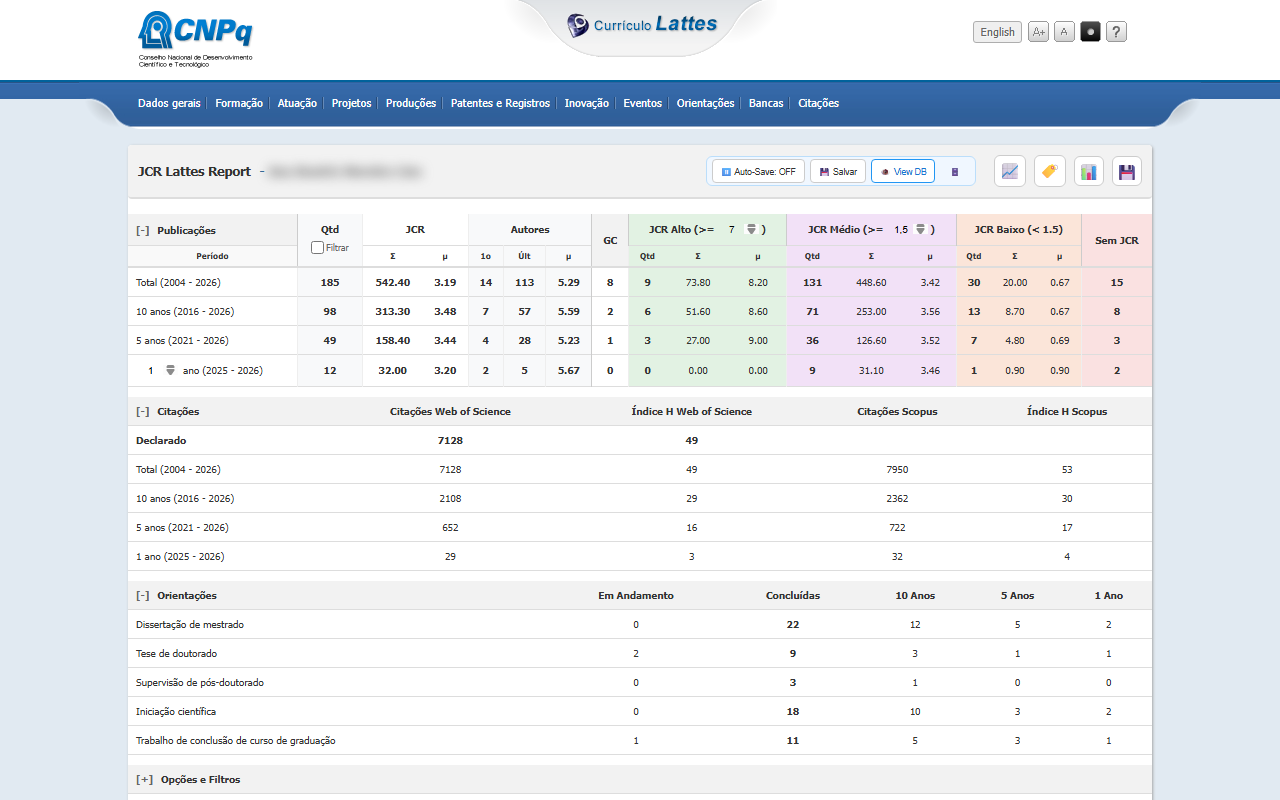
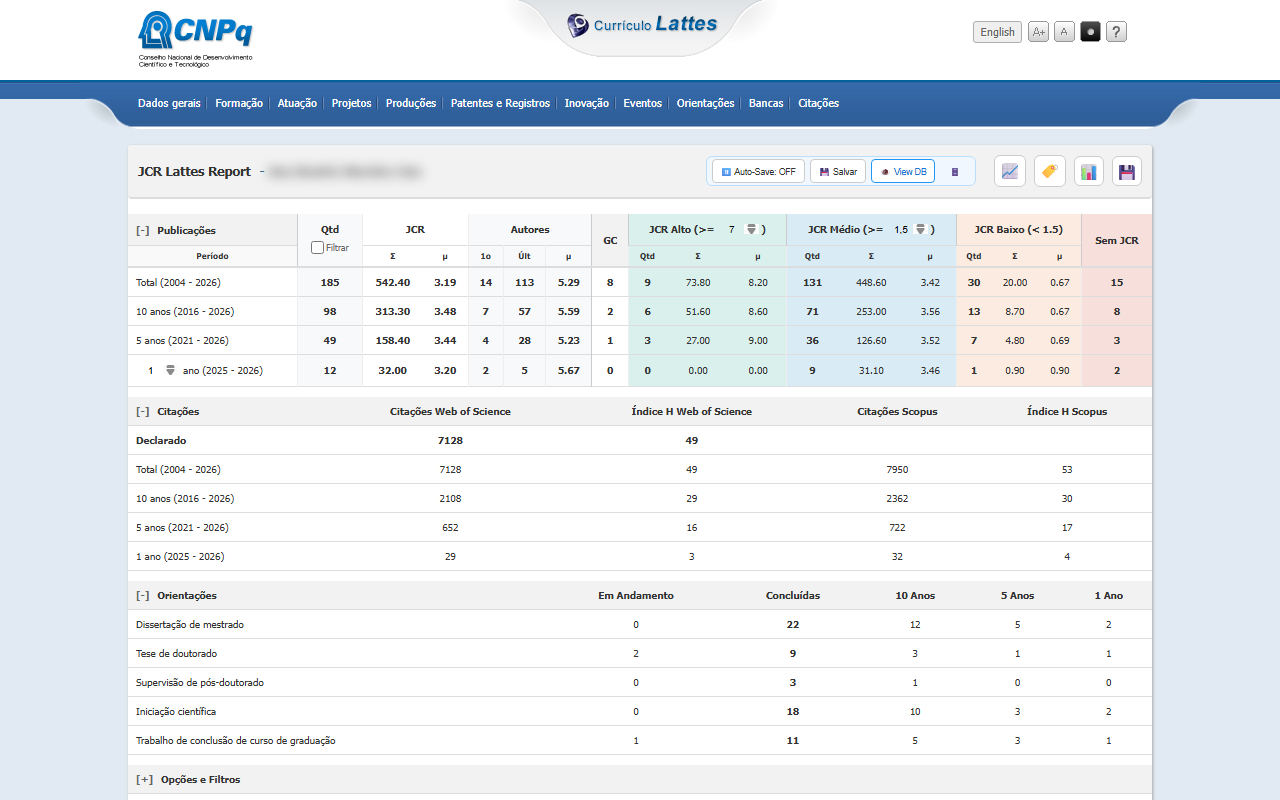
Paleta padrao legivel por daltonicos (Tol Vibrant)
As faixas de JCR e os graficos passam a usar a paleta Vibrant de Paul Tol
(Alto #009988, Medio #0077BB, Baixo #EE7733, Sem JCR #CC3311), que continua
distinguivel com protanopia, deuteranopia e tritanopia. Quem tinha as cores do
padrao anterior salvas passa para a nova; cores escolhidas a mao ficam. README,
descricao da loja e prints atualizados.

Changed region(s): [[0.5938, 0.25, 0.75, 0.5]]

diff --git a/dist/scripts/report_utils.js b/dist/scripts/report_utils.js
@@ -2,12 +2,18 @@
 // Shared utility functions for generating JCR Lattes reports
 
 window.JCRReportUtils = {
+  // Faixas de JCR na paleta "Vibrant" de Paul Tol, legivel por daltonicos: as quatro
+  // cores continuam distintas com protanopia, deuteranopia e tritanopia (a anterior,
+  // verde e vermelho, confundia Alto com Sem JCR). Os graficos usam as mesmas cores.
+  // CORES_PADRAO_ANTIGAS guarda a paleta anterior para content.js reconhecer quem a
+  // tem salva sem ter escolhido cor nenhuma.
+  CORES_PADRAO_ANTIGAS: { high: '#3daa43', mid: '#a838ca', low: '#e65100', none: '#e03535' },
   COLORS: {
-    highJcr: '#3daa43',
-    midJcr: '#a838ca',
-    lowJcr: '#E65100',
-    noJcr: '#e03535',
-    authorRank: '#3daa43',
+    highJcr: '#009988',
+    midJcr: '#0077BB',
+    lowJcr: '#EE7733',
+    noJcr: '#CC3311',
+    authorRank: '#009988',
     authorCount: '#666',
     footerText: '#333',
     border: '#ddd',
@@ -20,11 +26,11 @@ window.JCRReportUtils = {
   },
 
   GRAPH_COLORS: {
-    highJcr: '#2E7D32',
-    midJcr: '#1565C0',
-    lowJcr: '#E65100',
-    noJcr: '#C62828',
-    posDoc: '#6A1B9A'
+    highJcr: '#009988',
+    midJcr: '#0077BB',
+    lowJcr: '#EE7733',
+    noJcr: '#CC3311',
+    posDoc: '#EE3377'
   },
 
   // Linha vertical sutil que separa as colunas fora do eixo horizontal das que o

diff --git a/dist/scripts/content.js b/dist/scripts/content.js
@@ -230,10 +230,18 @@ async function processLattesPage(nameLink) {
   }
 
   if (saved?.colors) {
-    COLORS.highJcr = saved.colors.high || COLORS.highJcr;
-    COLORS.midJcr = saved.colors.mid || COLORS.midJcr;
-    COLORS.lowJcr = saved.colors.low || COLORS.lowJcr;
-    COLORS.noJcr = saved.colors.none || COLORS.noJcr;
+    // As cores sao gravadas sempre, escolhidas ou nao. Uma cor salva igual a da
+    // paleta padrao anterior e tratada como "nao escolhida" e passa para a nova
+    // paleta (para daltonicos); cor que o usuario mudou fica como esta.
+    const antigas = window.JCRReportUtils.CORES_PADRAO_ANTIGAS;
+    const salva = (k) => {
+      const v = saved.colors[k];
+      return v && String(v).toLowerCase() !== antigas[k] ? v : null;
+    };
+    COLORS.highJcr = salva('high') || COLORS.highJcr;
+    COLORS.midJcr = salva('mid') || COLORS.midJcr;
+    COLORS.lowJcr = salva('low') || COLORS.lowJcr;
+    COLORS.noJcr = salva('none') || COLORS.noJcr;
 
     GRAPH_COLORS.highJcr = COLORS.highJcr;
     GRAPH_COLORS.midJcr = COLORS.midJcr;

diff --git a/chrome_store_description.md b/chrome_store_description.md
@@ -14,12 +14,12 @@ Com o JCRLattes, você pode criar e gerenciar um banco de dados local com os cur
 Principais Funcionalidades:
 
 1. Métricas de Impacto e Anotação em Tempo Real:
-* Anotação de Fator de Impacto (JCR): Exibe o Fator de Impacto (JCR) mais recente e a contagem de autores logo abaixo de cada artigo no próprio currículo Lattes. Cores dinâmicas facilitam a triagem visual (Alto, Médio, Baixo, Sem JCR).
+* Anotação de Fator de Impacto (JCR): Exibe o Fator de Impacto (JCR) mais recente e a contagem de autores logo abaixo de cada artigo no próprio currículo Lattes. Cores dinâmicas facilitam a triagem visual (Alto, Médio, Baixo, Sem JCR), numa paleta padrão legível por daltônicos e personalizável.
 * Histograma de Distribuição JCR: Gráfico interativo que revela o perfil de qualidade da sua produção ao longo do tempo.
 * Métricas de Produção por Ano: Visualize a evolução da sua carreira com barras empilhadas que mostram o impacto acumulado anualmente.
 * Segunda Linha de Gráficos Visualmente Rica:
   - Histograma por Rank de Autoria: Análise da distribuição de publicações por posição de autoria (1º, 2º, 3º, ...), com colunas especiais para Último Autor (`Ult`) e Grandes Colaborações (`GC`), escala máxima fixada pelo histograma e sub-barras empilhadas de cores JCR proporcionais à altura efetiva da coluna.
-  - Orientações por Ano: Histograma de orientações concluídas de pós-graduação por ano (Pós-doutorado em Verde, Doutorado em Azul, Mestrado em Laranja), complementado por colunas especiais ao final para Orientações em Andamento (`EA`) com cores fracionadas, Iniciação Científica (`IC`) em Vermelho e Outras Orientações (`Out.`) em Cinza.
+  - Orientações por Ano: Histograma de orientações concluídas de pós-graduação por ano (Pós-doutorado em Verde-azulado, Doutorado em Azul, Mestrado em Laranja), complementado por colunas especiais ao final para Orientações em Andamento (`EA`) com cores fracionadas, Iniciação Científica (`IC`) em Vermelho e Outras Orientações (`Out.`) em Cinza.
 * Tabelas Estatísticas Dinâmicas: Tabelas com Somatórios (Sigma) e Médias (Mu) automáticas para períodos de 5 anos, 10 anos ou intervalos customizados (ex: triênio/quadriênio de avaliação).
 * Citação e Índice H: Consolidação automática do Índice H e número de citações para Web of Science e Scopus.
 

diff --git a/README.md b/README.md
@@ -15,12 +15,12 @@ O repositório inclui:
 ## 🚀 Principais Funcionalidades (Extensão)
 
 ### 1. Métricas de Impacto e Anotação em Tempo Real
-* **Anotação de Fator de Impacto (JCR)**: Exibe o Fator de Impacto (JCR) mais recente e a contagem de autores logo abaixo de cada artigo no próprio currículo Lattes. Cores dinâmicas facilitam a triagem visual.
+* **Anotação de Fator de Impacto (JCR)**: Exibe o Fator de Impacto (JCR) mais recente e a contagem de autores logo abaixo de cada artigo no próprio currículo Lattes. Cores dinâmicas facilitam a triagem visual, numa paleta padrão legível por daltônicos e personalizável.
 * **Histograma de Distribuição JCR**: Gráfico interativo que revela o perfil de qualidade da sua produção ao longo do tempo.
 * **Métricas de Produção por Ano**: Visualize a evolução da sua carreira com barras empilhadas que mostram o impacto acumulado anualmente.
 * **Segunda Linha de Gráficos**:
   - **Distribuição por Rank de Autoria**: Histograma da distribuição por posição de autoria (`1º`, `2º`, ...), com colunas especiais para Último Autor (`Ult`) e Grandes Colaborações (`GC`), escala máxima fixada pelo histograma e barras empilhadas de cores JCR proporcionais.
-  - **Orientações por Ano**: Histograma de orientações concluídas de pós-graduação por ano (Pós-doutorado em Verde, Doutorado em Azul, Mestrado em Laranja), complementado por colunas para Orientações em Andamento (`EA`) com cores fracionadas, Iniciação Científica (`IC`) em Vermelho e Outras Orientações (`Out.`) em Cinza.
+  - **Orientações por Ano**: Histograma de orientações concluídas de pós-graduação por ano (Pós-doutorado em Verde-azulado, Doutorado em Azul, Mestrado em Laranja), complementado por colunas para Orientações em Andamento (`EA`) com cores fracionadas, Iniciação Científica (`IC`) em Vermelho e Outras Orientações (`Out.`) em Cinza.
 * **Tabelas Estatísticas Dinâmicas**: Tabelas com Somatórios e Médias automáticas para períodos customizados.
 * **Citação e Índice H**: Consolidação automática do Índice H e número de citações para Web of Science e Scopus.
 
